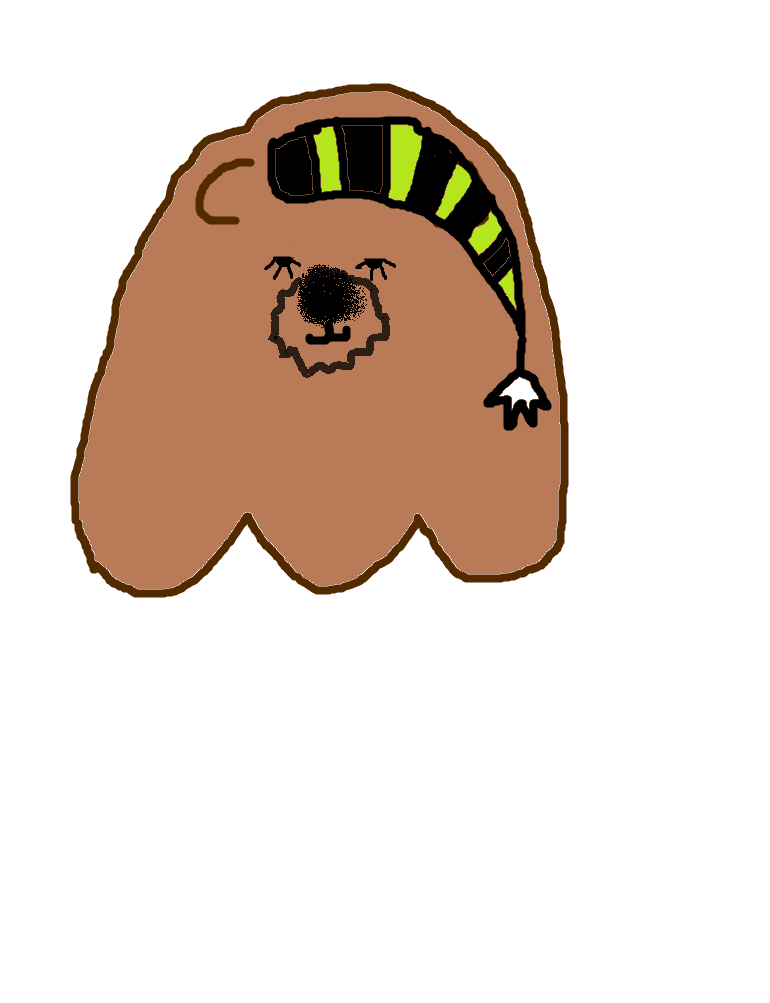
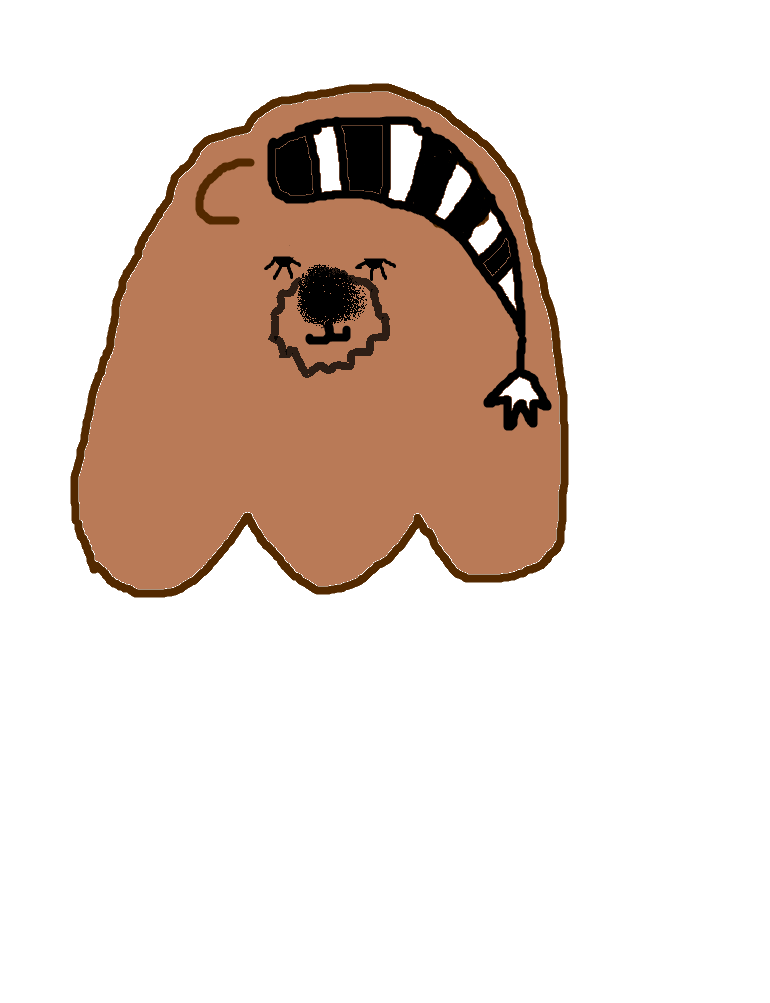
images backgrounds set to transparent

Changed region(s): [[0.4987, 0.1236, 0.6545, 0.2473], [0.4052, 0.1236, 0.4675, 0.1854], [0.6545, 0.2782, 0.6857, 0.3091]]

diff --git a/src/sample/sample/Controller.java b/src/sample/sample/Controller.java
@@ -4,6 +4,7 @@ import javafx.application.Platform;
 import javafx.fxml.FXML;
 import javafx.scene.control.Button;
 import javafx.scene.control.Label;
+import javafx.scene.image.ImageView;
 import javafx.scene.layout.AnchorPane;
 import sample.character.Pet;
 import sample.game.Game;
@@ -18,6 +19,7 @@ public class Controller {
     public AnchorPane petArea;
     public AnchorPane statusArea;
     public Label textBox;
+    public ImageView characterImage;
     private Game game;
     public AnchorPane mainPane;
     public Button startButton;
@@ -31,69 +33,61 @@ public class Controller {
         gamePane.setVisible(true);
         game = new Game(new Pet("Medve"));
         Timer timer = new Timer();
-
         TimerTask timerTask = new TimerTask() {
             @Override
             public void run() {
                 game.step();
-
                 Platform.runLater(() -> {
                     refreshScreen();
-
                 });
-
             }
         };
         timer.schedule(timerTask, 0, 5000);
     }
 
 
-
     @FXML
-    public void refreshScreen(){
+    public void refreshScreen() {
         setTextBox(game.getPet().getAction());
-
-
     }
 
 
-    public void setTextBox(String text){
+    public void setTextBox(String text) {
         textBox.setText(text);
-
     }
+
+
 
     @FXML
-    public void eat(){
+    public void eat() {
         game.getPet().eat();
         System.out.println("eat");
         setTextBox("...");
     }
+
     @FXML
-    public void sleep(){
+    public void sleep() {
         game.getPet().sleep();
         System.out.println("sleep");
         setTextBox("...");
 
     }
-    @FXML
-    public void learn(){
-        game.getPet().learn();
 
+    @FXML
+    public void learn() {
+        game.getPet().learn();
         System.out.println("learn");
         setTextBox("...");
 
     }
+
     @FXML
-    public void play(){
+    public void play() {
         game.getPet().play();
         System.out.println("play");
         setTextBox("...");
 
     }
-
-
-
-
 
 
 }

diff --git a/src/sample/sample/game/Game.java b/src/sample/sample/game/Game.java
@@ -3,7 +3,6 @@ package sample.game;
 import sample.character.Pet;
 
 public class Game {
-
     private Pet pet;
 
     public Game(Pet pet) {
@@ -16,9 +15,7 @@ public class Game {
                 pet.handleXP();
                 pet.status();
                 pet.doSomething();
-
     }
-
 
 
     public Pet getPet() {

diff --git a/src/sample/sample/Main.java b/src/sample/sample/Main.java
@@ -19,7 +19,6 @@ public class Main extends Application {
     }
 
 
-
     public static void main(String[] args) {
         launch(args);
     }
